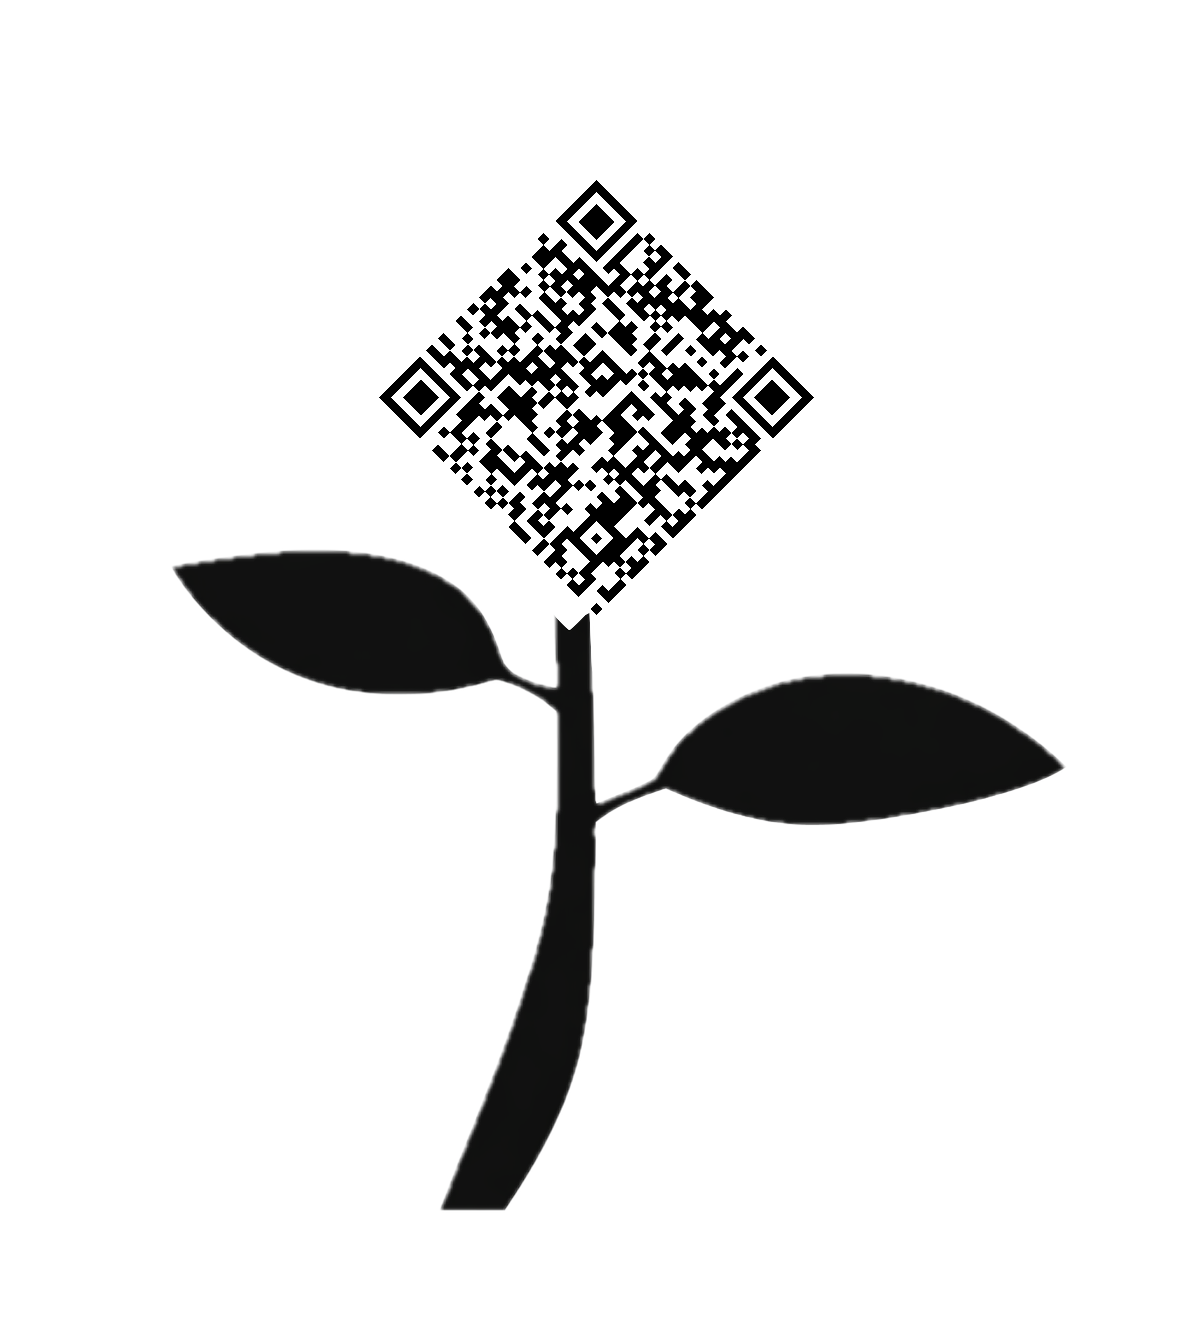
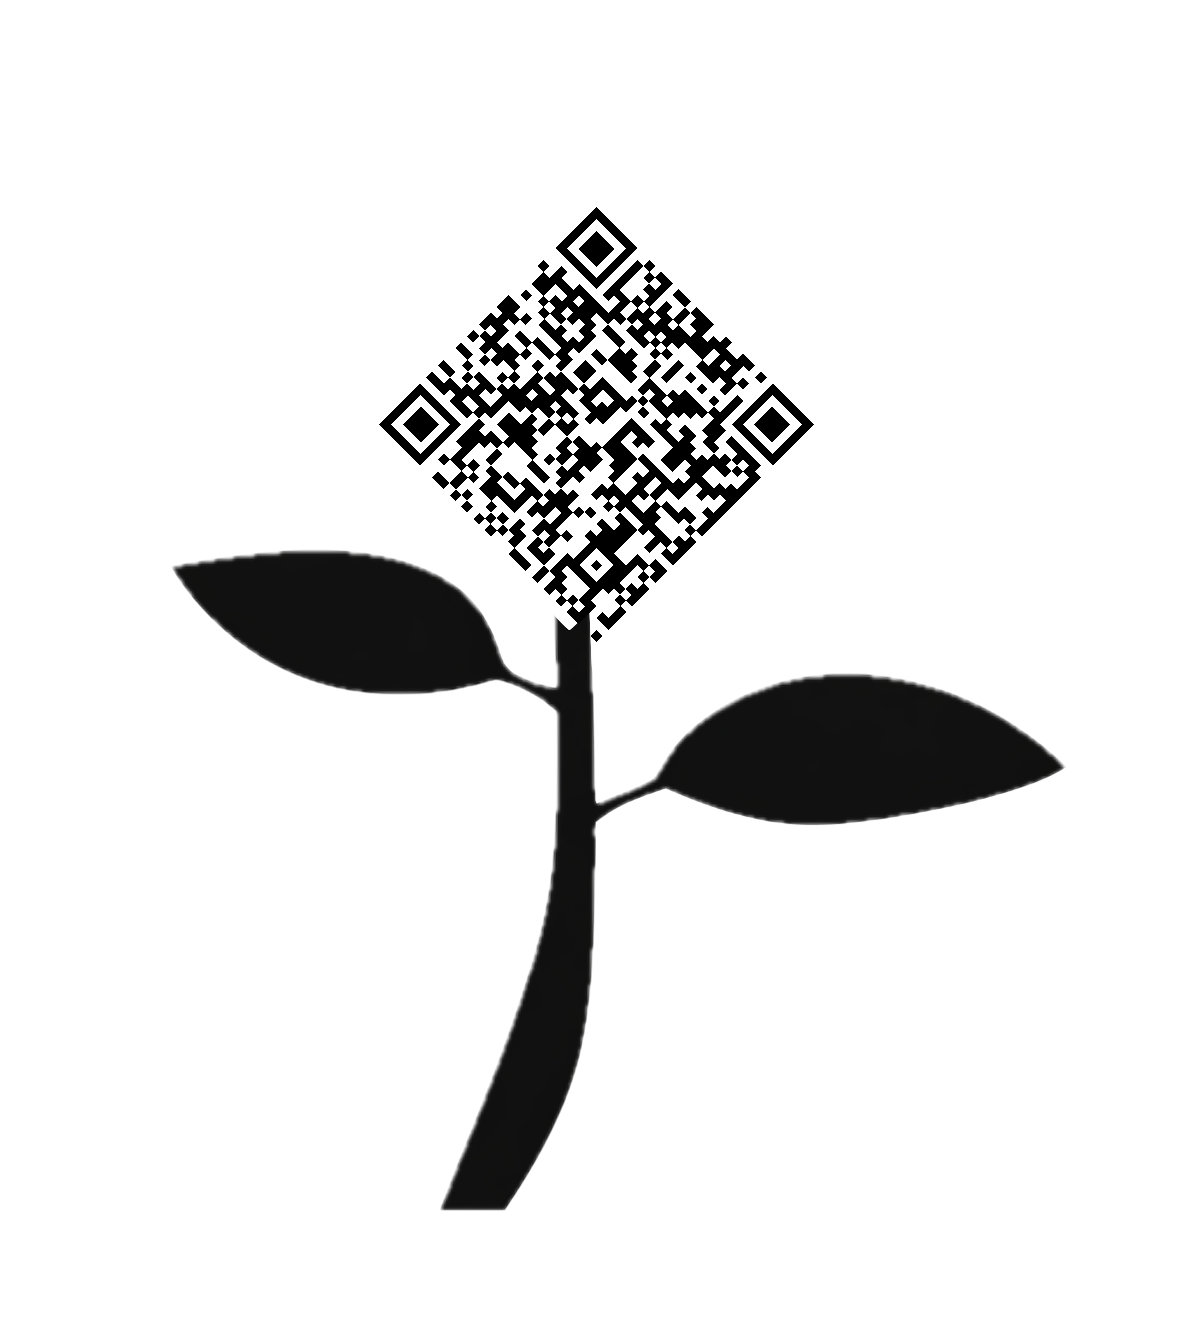
Add Android APK release workflow

Changed region(s): [[0.3099, 0.1245, 0.6817, 0.4981]]

diff --git a/lib/qr-plant/plant-qr-canvas.ts b/lib/qr-plant/plant-qr-canvas.ts
@@ -42,7 +42,7 @@ export const TERPRODUCT_STEM_QR_DEFAULTS = {
   size: 340,
   rotateClockwiseDeg: 45,
   hDeg: -90,
-  qrStemGapPx: 42,
+  qrStemGapPx: 15,
 } as const;
 
 export function terproductStemQrOptions(

diff --git a/README.md b/README.md
@@ -29,6 +29,35 @@ The repo includes **`android/`** and **`ios/`** (Capacitor 8). `npm run build:ca
 - **ESC/POS QR** uses a minimal GS (k) model-2 path with **ASCII-only** payload; extend `lib/printing/escpos-qr.ts` if you need full UTF-8 and raw byte writes. **Branded Android POS** units with an **in-built USB/serial printer** (e.g. some Sunmi models) may need the vendor AIDL/SDK instead of generic SPP—this project is a **generic SPP+ESC/POS** baseline.
 - **iOS + Google ML Kit:** the default app uses **Swift PM** for some plugins. `@capacitor-mlkit/barcode-scanning` is distributed as **CocoaPods**; if the barcode plugin does not resolve in Xcode, follow the [Capawesome ML Kit Barcode iOS](https://capawesome.io/plugins/mlkit/barcode-scanning/) install notes (CocoaPods / `pod install` as required).
 
+### Android APK releases
+
+`.github/workflows/android-release.yml` builds a signed APK and attaches it to a GitHub Release when you push a tag like `v1.0.1`, or when you run the workflow manually with a tag input. The workflow sets Android `versionCode` from the GitHub run number and `versionName` from the release tag.
+
+Configure these GitHub repository secrets before using it:
+
+- `ANDROID_KEYSTORE_BASE64` — base64-encoded release keystore.
+- `ANDROID_KEYSTORE_PASSWORD`
+- `ANDROID_KEY_ALIAS`
+- `ANDROID_KEY_PASSWORD`
+
+Create a release keystore once and keep it permanently; Android updates require every APK to be signed with the same key.
+
+```bash
+keytool -genkeypair -v \
+  -keystore terproduct-release.keystore \
+  -alias terproduct \
+  -keyalg RSA -keysize 2048 -validity 10000
+
+base64 -i terproduct-release.keystore | pbcopy
+```
+
+Release by pushing a tag:
+
+```bash
+git tag v1.0.1
+git push origin v1.0.1
+```
+
 Local preview of the **server** build:
 
 ```bash
